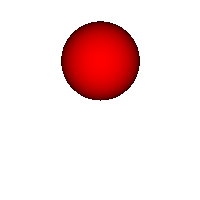
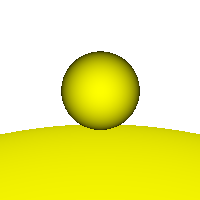
Add ground

diff --git a/scene.go b/scene.go
@@ -11,7 +11,7 @@ import (
 type Scene struct {
 	height, width int
 	camera *Camera
-	sphere *Sphere
+	spheres []*Sphere
 }
 
 func (s *Scene) Render()  {
@@ -21,13 +21,26 @@ func (s *Scene) Render()  {
 		for j := 0; j < s.width; j++ {
 			ray := s.camera.GetRay(float64(j) / float64(s.width), float64(i)/ float64(s.height))
 
-			pos := s.sphere.Position(ray)
-			if pos > 0 {
-				N := ray.PointAt(pos).Sub(s.sphere.center)
-				r := uint8(math.Abs(Normalize(N).InnerProduct(Normalize(s.sphere.center.Sub(s.camera.pos)))) * 255)
+			minIndex := -1
+			minPosition := math.MaxFloat64
+			for i, sphere := range s.spheres {
+				position := sphere.Position(ray)
+				if position > 0 && position < minPosition {
+					minIndex = i
+					minPosition = position
+				}
+			}
+
+			if minIndex >= 0 {
+				sphere := s.spheres[minIndex]
+				N := ray.PointAt(minPosition).Sub(sphere.center)
+				r := uint8(math.Abs(Normalize(N).InnerProduct(Normalize(sphere.center.Sub(s.camera.pos)))) * 255)
+				if minIndex == 1 {
+					println(r)
+				}
 				img.Set(j, s.height-i, color.RGBA{
 					r,
-					0,
+					r,
 					0,
 					255,
 				})

diff --git a/main.go b/main.go
@@ -4,13 +4,14 @@ func main() {
 	height := 200
 	width := 200
 
-	lookFrom := NewVector(-2, 0, 0)
+	lookFrom := NewVector(-2, 0, 0.3)
 	lookAt := NewVector(2, 0, 0)
 	vup := NewVector(0, 0, 1)
 	c := NewCamera(lookFrom, lookAt, vup, 0.5, 1.0)
 
-	sphere := &Sphere{NewVector(0, 0.0, 0.2), 0.2}
-	scene := &Scene{height: height, width: width, camera: c, sphere: sphere}
+	sphere := &Sphere{NewVector(0, 0, 0.2), 0.2}
+ground := &Sphere{NewVector(0, 0, -3), 3}
+	scene := &Scene{height: height, width: width, camera: c, spheres: []*Sphere{sphere, ground}}
 
 	scene.Render()
 }
